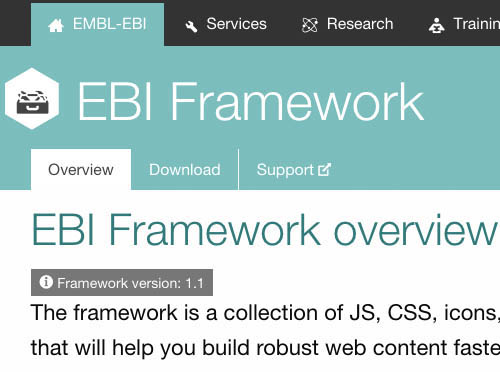
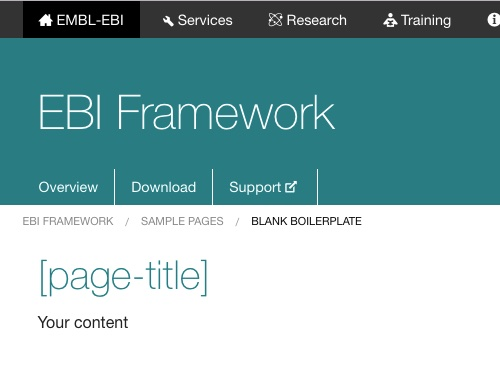
Update structure to match v1.2

diff --git a/templates/page.tpl.php b/templates/page.tpl.php
@@ -1,163 +1,70 @@
 <!--.page -->
-<div role="document" class="page">
+<div id="content" role="document" class="page">
 
   <!--.l-header -->
   <div data-sticky-container>
-    <div id="local-masthead" data-sticky data-sticky-on="large" data-top-anchor="180" data-btm-anchor="300000">
-      <header role="banner" class="l-header">
-
-        <div id="global-masthead" class="clearfix">
-          <!--This has to be one line and no newline characters-->
-          <a href="//www.ebi.ac.uk/" title="Go to the EMBL-EBI homepage"><span class="ebi-logo"></span></a>
-
-          <nav>
-            <div class="row">
-              <ul id="global-nav" class="menu">
-                <!-- set active class as appropriate -->
-                <li id="home-mobile" class=""><a href="//www.ebi.ac.uk"></a></li>
-                <li id="home" class="<?php print $variables['active_in_global_nav']['home']; ?>"><a href="//www.ebi.ac.uk"><i class="icon icon-generic" data-icon="H"></i> EMBL-EBI</a></li>
-                <li id="services" class="<?php print $variables['active_in_global_nav']['services']; ?>"><a href="//www.ebi.ac.uk/services"><i class="icon icon-generic" data-icon="("></i> Services</a></li>
-                <li id="research" class="<?php print $variables['active_in_global_nav']['research']; ?>"><a href="//www.ebi.ac.uk/research"><i class="icon icon-generic" data-icon=")"></i> Research</a></li>
-                <li id="training"  class="<?php print $variables['active_in_global_nav']['training']; ?>"><a href="//www.ebi.ac.uk/training"><i class="icon icon-generic" data-icon="t"></i> Training</a></li>
-                <li id="about" class="<?php print $variables['active_in_global_nav']['about']; ?>"><a href="//www.ebi.ac.uk/about"><i class="icon icon-generic" data-icon="i"></i> About us</a></li>
-                <li id="search">
-                  <a href="#" data-toggle="search-global-dropdown"><i class="icon icon-functional" data-icon="1"></i> <span class="show-for-small-only">Search</span></a>
-                  <div id="search-global-dropdown" class="dropdown-pane" data-dropdown data-options="closeOnClick:true;">
-                    <form id="global-search" name="global-search" action="/ebisearch/search.ebi" method="GET">
-                      <fieldset>
-                        <div class="input-group">
-                          <input type="text" name="query" id="global-searchbox" class="input-group-field" placeholder="Search all of EMBL-EBI">
-                          <div class="input-group-button">
-                            <input type="submit" name="submit" value="Search" class="button">
-                            <input type="hidden" name="db" value="allebi" checked="checked">
-                            <input type="hidden" name="requestFrom" value="global-masthead" checked="checked">
-                          </div>
-                        </div>
-                      </fieldset> 
-                    </form>
-                  </div>
-                </li>
-                <li class="float-right show-for-medium embl-selector">
-                  <button class="button float-right" type="button" data-toggle="embl-dropdown">Hinxton</button>
-                  <!-- The dropdown menu will be programatically added by script.js -->
-                </li>
-                <!-- The dropdown menu will be programatically added by script.js -->
-                <!-- Temporary variant while RWD is still in dev. -->
-                <!-- <li class="float-right show-for-medium embl-selector">
-                  <a href="//www.ebi.ac.uk" style="display: inline-block; background: no-repeat 4px 50% url('//khawkins98.github.io/EBI-Framework//images/logos/EMBL-EBI/EMBL_EBI_Logo_white.svg'); padding-left: 95px; background-size: 105px; height: 31px;"></a>
-                </li> -->
-              </ul>
+    <header id="masthead" class="masthead" data-sticky data-sticky-on="large" data-top-anchor="content:top" data-btm-anchor="content:bottom">
+      <div class="masthead-inner row">
+        <?php if ($top_bar): ?>
+          <!--.top-bar -->
+          <?php if ($top_bar_classes): ?>
+            <div class="<?php print $top_bar_classes; ?>">
+          <?php endif; ?>
+          <nav class="top-bar" data-topbar <?php print $top_bar_options; ?>>
+            <ul class="title-area">
+              <li class="name"><h1><?php print $linked_site_name; ?></h1></li>
+              <li class="toggle-topbar menu-icon">
+                <a href="#"><span><?php print $top_bar_menu_text; ?></span></a></li>
+            </ul>
+            <section class="top-bar-section">
+              <?php if ($top_bar_main_menu) : ?>
+                <?php print $top_bar_main_menu; ?>
+              <?php endif; ?>
+              <?php if ($top_bar_secondary_menu) : ?>
+                <?php print $top_bar_secondary_menu; ?>
+              <?php endif; ?>
+            </section>
+          </nav>
+          <?php if ($top_bar_classes): ?>
             </div>
-          </nav>
-
-        </div>
-
-
-        <div class="masthead row">
-
-          <?php if ($top_bar): ?>
-            <!--.top-bar -->
-            <?php if ($top_bar_classes): ?>
-              <div class="<?php print $top_bar_classes; ?>">
-            <?php endif; ?>
-            <nav class="top-bar" data-topbar <?php print $top_bar_options; ?>>
-              <ul class="title-area">
-                <li class="name"><h1><?php print $linked_site_name; ?></h1></li>
-                <li class="toggle-topbar menu-icon">
-                  <a href="#"><span><?php print $top_bar_menu_text; ?></span></a></li>
-              </ul>
-              <section class="top-bar-section">
-                <?php if ($top_bar_main_menu) : ?>
-                  <?php print $top_bar_main_menu; ?>
-                <?php endif; ?>
-                <?php if ($top_bar_secondary_menu) : ?>
-                  <?php print $top_bar_secondary_menu; ?>
-                <?php endif; ?>
-              </section>
-            </nav>
-            <?php if ($top_bar_classes): ?>
-              </div>
-            <?php endif; ?>
-            <!--/.top-bar -->
           <?php endif; ?>
+          <!--/.top-bar -->
+        <?php endif; ?>
 
-          <!-- local-title -->
-          <div class="columns medium-12" id="local-title">
-            <?php if (!empty($page['local_title'])) : ?>
-              <?php print render($page['local_title']); ?>
-            <?php else: ?>          
-              <h1><a href="<?php print $variables['local_title_path'] ?>" title="Back to <?php print $variables['local_title']; ?>"><?php print $variables['local_title']; ?></a></h1>
-            <?php endif; ?>
-            <?php if (!empty($page['header'])): ?>
-              <!--.l-header-region -->
-              <section class="l-header-region row">
-                <?php print render($page['header']); ?>
-              </section>
-              <!--/.l-header-region -->
-            <?php endif; ?>
-          </div>
-          <!-- /local-title -->
-
-          <!-- local-nav -->
-          <?php if ($alt_main_menu): ?>
-            <nav id="main-menu" class="navigation" role="navigation">
-              <?php if (!empty($page['local_nav'])) : ?>
-                <?php print render($page['local_nav']); ?>
-              <?php else: ?>          
-                <?php print ($alt_secondary_menu); ?>
-              <?php endif; ?>
-              <?php if ($alt_user_menu): ?>
-                  <?php print $alt_user_menu; ?>
-              <?php endif; ?>
-            </nav> <!-- /#main-menu -->
+        <!-- local-title -->
+        <div class="columns medium-12" id="local-title">
+          <?php if (!empty($page['local_title'])) : ?>
+            <?php print render($page['local_title']); ?>
+          <?php else: ?>
+            <h1><a href="<?php print $variables['local_title_path'] ?>" title="Back to <?php print $variables['local_title']; ?>"><?php print $variables['local_title']; ?></a></h1>
           <?php endif; ?>
-
-
-<!--
-          <nav>
-            <ul class="dropdown menu float-left" data-description="navigational">
-              <li><a href="#test">About</a></li>
-              <li class="active"><a href="#">Generic</a></li>
-              <li><a href="#">Generic</a></li>
-              <li><a href="#">Generic</a></li>
-            </ul>
-            <ul class="menu dropdown float-right" data-dropdown-menu data-description="functional">
-              <li class="functional"><a href="#"><i class="icon icon-generic" data-icon="d"></i> Share this</a>
-                <ul class="menu js">
-                  <li><a href="#">Item 1A Loooong</a></li>
-                  <li>
-                    <a href='#'> Item 1 sub</a>
-                    <ul class='menu'>
-                      <li><a href='#'>Item 1 subA</a></li>
-                      <li><a href='#'>Item 1 subB</a></li>
-                      <li>
-                        <a href='#'> Item 1 sub</a>
-                        <ul class='menu'>
-                          <li><a href='#'>Item 1 subA</a></li>
-                          <li><a href='#'>Item 1 subB</a></li>
-                        </ul>
-                      </li>
-                      <li>
-                        <a href='#'> Item 1 sub</a>
-                        <ul class='menu'>
-                          <li><a href='#'>Item 1 subA</a></li>
-                        </ul>
-                      </li>
-                    </ul>
-                  </li>
-                  <li><a href="#">Item 1B</a></li>
-                </ul>
-
-            </ul>
-          </nav>
-
-          -->
-          <!-- /local-nav -->
-
+          <?php if (!empty($page['header'])): ?>
+            <!--.l-header-region -->
+            <section class="l-header-region row">
+              <?php print render($page['header']); ?>
+            </section>
+            <!--/.l-header-region -->
+          <?php endif; ?>
         </div>
+        <!-- /local-title -->
 
-      </header>
-    </div>
+        <!-- local-nav -->
+        <?php if ($alt_main_menu): ?>
+          <nav id="main-menu" class="navigation" role="navigation">
+            <?php if (!empty($page['local_nav'])) : ?>
+              <?php print render($page['local_nav']); ?>
+            <?php else: ?>
+              <?php print ($alt_secondary_menu); ?>
+            <?php endif; ?>
+            <?php if ($alt_user_menu): ?>
+                <?php print $alt_user_menu; ?>
+            <?php endif; ?>
+          </nav> <!-- /#main-menu -->
+        <?php endif; ?>
+        <!-- /local-nav -->
+      </div>
+    </header>
+
   </div>
   <!--/.l-header -->
 
@@ -196,8 +103,8 @@
     <!--.l-breadcrumb -->
     <div class="row">
       <div class="columns">
-        <?php 
-        if ($breadcrumb): print $breadcrumb; endif; 
+        <?php
+        if ($breadcrumb): print $breadcrumb; endif;
         ?>
       </div>
     </div>
@@ -206,8 +113,8 @@
 
 
   <!--.l-main -->
-  <main role="main" class="row l-main">
-    
+  <main id="main-content-area" role="main" class="row l-main">
+
     <!-- .l-main region -->
     <div class="<?php print $main_grid; ?> main columns">
       <?php if (!empty($page['highlighted'])): ?>
@@ -292,20 +199,25 @@
         <?php print render($page['footer_fourthcolumn']); ?>
       </div>
     <?php endif; ?>
-  </section>
-  <!--/.footer-columns-->
 
-  <!--.l-footer -->
-  <footer id="global-footer" class="l-footer panel row" role="contentinfo">
-    <nav id="global-nav-expanded"></nav>
-
-    <div id="ebi-footer-meta"></div>
     <?php if (!empty($page['footer'])): ?>
       <div class="footer columns">
         <?php print render($page['footer']); ?>
       </div>
     <?php endif; ?>
+  </section>
+  <!--/.footer-columns-->
 
+  <!--.l-footer -->
+  <footer>
+    <div id="global-footer" class="global-footer">
+      <nav id="global-nav-expanded" class="global-nav-expanded row">
+        <!-- Footer will be automatically inserted by footer.js -->
+      </nav>
+      <section id="ebi-footer-meta" class="ebi-footer-meta row">
+        <!-- Footer meta will be automatically inserted by footer.js -->
+      </section>
+    </div>
   </footer>
   <!--/.l-footer -->
 

diff --git a/templates/html.tpl.php b/templates/html.tpl.php
@@ -17,12 +17,12 @@
     function ebi_framework_tidy($buffer, $is_admin, $is_prod) {
       $local_server = str_replace('.', '\.', $_SERVER['HTTP_HOST']);
       // remove http protcol from: from www.ebi links
-  //    $buffer = preg_replace('#(href|src)\s*=\s*(["\'])https?:(//www\.ebi\.ac\.uk)#sm', '$1=$2$3', $buffer); 
-  //    $buffer = preg_replace('#(url)\s*\(\s*(["\']?)https?:(//www\.ebi\.ac\.uk)#sm', '$1($2$3', $buffer); 
-  //    $buffer = preg_replace('#(url)\s*\(\s*(["\']?)(https?:)?//frontier\.ebi\.ac\.uk/?#sm', '$1($2/', $buffer); 
+  //    $buffer = preg_replace('#(href|src)\s*=\s*(["\'])https?:(//www\.ebi\.ac\.uk)#sm', '$1=$2$3', $buffer);
+  //    $buffer = preg_replace('#(url)\s*\(\s*(["\']?)https?:(//www\.ebi\.ac\.uk)#sm', '$1($2$3', $buffer);
+  //    $buffer = preg_replace('#(url)\s*\(\s*(["\']?)(https?:)?//frontier\.ebi\.ac\.uk/?#sm', '$1($2/', $buffer);
       // remove http protcol from: from local domain links
-      $buffer = preg_replace("#(href|src)\s*=\s*([\"'])https?:(//{$local_server})#sm", '$1=$2$3', $buffer); 
-  //    $buffer = preg_replace("#(url)\s*\(\s*([\"']?)https?:(//{$local_server})#sm", '$1($2$3', $buffer); 
+      $buffer = preg_replace("#(href|src)\s*=\s*([\"'])https?:(//{$local_server})#sm", '$1=$2$3', $buffer);
+  //    $buffer = preg_replace("#(url)\s*\(\s*([\"']?)https?:(//{$local_server})#sm", '$1($2$3', $buffer);
 
       if (!$is_prod) {
         $buffer = str_replace('//www.ebi.ac.uk', '//wwwdev.ebi.ac.uk', $buffer);
@@ -93,16 +93,16 @@
 
   <!-- If you have custom icon, replace these as appropriate.
        You can generate them at realfavicongenerator.net -->
-  <link rel="icon" type="image/x-icon" href="https://ebiwd.github.io/EBI-Framework/images/logos/EMBL-EBI/favicons/favicon.ico" />
-  <link rel="icon" type="image/png" href="https://ebiwd.github.io/EBI-Framework/images/logos/EMBL-EBI/favicons/favicon-32x32.png" />
-  <link rel="icon" type="image/png" sizes="192×192" href="https://ebiwd.github.io/EBI-Framework/images/logos/EMBL-EBI/favicons/android-chrome-192x192.png" /> <!-- Android (192px) -->
-  <link rel="apple-touch-icon-precomposed" sizes="114x114" href="https://ebiwd.github.io/EBI-Framework/images/logos/EMBL-EBI/favicons/apple-icon-114x114.png"> <!-- For iPhone 4 Retina display (114px) -->
-  <link rel="apple-touch-icon-precomposed" sizes="72x72" href="https://ebiwd.github.io/EBI-Framework/images/logos/EMBL-EBI/favicons/apple-icon-72x72.png"> <!-- For iPad (72px) -->
-  <link rel="apple-touch-icon-precomposed" sizes="144x144" href="https://ebiwd.github.io/EBI-Framework/images/logos/EMBL-EBI/favicons/apple-icon-144x144.png"> <!-- For iPad retinat (144px) -->
-  <link rel="apple-touch-icon-precomposed" href="https://ebiwd.github.io/EBI-Framework/images/logos/EMBL-EBI/favicons/apple-icon-57x57.png"> <!-- For iPhone (57px) -->
-  <link rel="mask-icon" href="https://ebiwd.github.io/EBI-Framework/images/logos/EMBL-EBI/favicons/safari-pinned-tab.svg" color="#ffffff"> <!-- Safari icon for pinned tab -->
-  <meta name="msapplication-TileColor" content="#2b5797"> <!-- MS Icons -->
-  <meta name="msapplication-TileImage" content="https://ebiwd.github.io/EBI-Framework/images/logos/EMBL-EBI/favicons/mstile-144x144.png">
+  <link rel="icon" type="image/x-icon" href="//www.ebi.ac.uk/web_guidelines/EBI-Framework/v1.2/images/logos/EMBL-EBI/favicons/favicon.ico" />
+  <link rel="icon" type="image/png" href="//www.ebi.ac.uk/web_guidelines/EBI-Framework/v1.2/images/logos/EMBL-EBI/favicons/favicon-32x32.png" />
+  <link rel="icon" type="image/png" sizes="192×192" href="//www.ebi.ac.uk/web_guidelines/EBI-Framework/v1.2/images/logos/EMBL-EBI/favicons/android-chrome-192x192.png" /> <!-- Android (192px) -->
+  <link rel="apple-touch-icon-precomposed" sizes="114x114" href="//www.ebi.ac.uk/web_guidelines/EBI-Framework/v1.2/images/logos/EMBL-EBI/favicons/apple-icon-114x114.png" /> <!-- For iPhone 4 Retina display (114px) -->
+  <link rel="apple-touch-icon-precomposed" sizes="72x72" href="//www.ebi.ac.uk/web_guidelines/EBI-Framework/v1.2/images/logos/EMBL-EBI/favicons/apple-icon-72x72.png" /> <!-- For iPad (72px) -->
+  <link rel="apple-touch-icon-precomposed" sizes="144x144" href="//www.ebi.ac.uk/web_guidelines/EBI-Framework/v1.2/images/logos/EMBL-EBI/favicons/apple-icon-144x144.png" /> <!-- For iPad retinat (144px) -->
+  <link rel="apple-touch-icon-precomposed" href="//www.ebi.ac.uk/web_guidelines/EBI-Framework/v1.2/images/logos/EMBL-EBI/favicons/apple-icon-57x57.png" /> <!-- For iPhone (57px) -->
+  <link rel="mask-icon" href="//www.ebi.ac.uk/web_guidelines/EBI-Framework/v1.2/images/logos/EMBL-EBI/favicons/safari-pinned-tab.svg" color="#ffffff" /> <!-- Safari icon for pinned tab -->
+  <meta name="msapplication-TileColor" content="#2b5797" /> <!-- MS Icons -->
+  <meta name="msapplication-TileImage" content="//www.ebi.ac.uk/web_guidelines/EBI-Framework/v1.2/images/logos/EMBL-EBI/favicons/mstile-144x144.png" />
 
   <!-- <meta name="ebi-localmasthead-color" content="#241a00">  -->
   <!-- <meta name="ebi-localmasthead-image" content="https://ebiwd.github.io/EBI-Framework/images/backgrounds/training-yellow-2.jpg"> -->
@@ -114,6 +114,29 @@
   <div class="skip-link">
     <a href="#main-content" class="element-invisible element-focusable"><?php print t('Skip to main content'); ?></a>
   </div>
+  <header id="masthead-black-bar" class="clearfix masthead-black-bar">
+    <nav class="row">
+      <ul id="global-nav" class="menu">
+        <!-- set active class as appropriate -->
+        <li class="home-mobile"><a href="//www.ebi.ac.uk"></a></li>
+        <li class="home <?php print $variables['active_in_global_nav']['home']; ?>"><a href="//www.ebi.ac.uk">EMBL-EBI</a></li>
+        <li class="services <?php print $variables['active_in_global_nav']['services']; ?>"><a href="//www.ebi.ac.uk/services">Services</a></li>
+        <li class="research <?php print $variables['active_in_global_nav']['research']; ?>"><a href="//www.ebi.ac.uk/research">Research</a></li>
+        <li class="training <?php print $variables['active_in_global_nav']['training']; ?>"><a href="//www.ebi.ac.uk/training">Training</a></li>
+        <li class="about <?php print $variables['active_in_global_nav']['about']; ?>"><a href="//www.ebi.ac.uk/about">About us</a></li>
+        <li class="search">
+          <a href="#" data-toggle="search-global-dropdown"><span class="show-for-small-only">Search</span></a>
+          <div id="search-global-dropdown" class="dropdown-pane" data-dropdown data-options="closeOnClick:true;">
+          <!-- The dropdown menu will be programatically added by script.js -->
+          </div>
+        </li>
+        <li class="float-right show-for-medium embl-selector">
+          <button class="button float-right" type="button" data-toggle="embl-dropdown">Hinxton</button>
+          <!-- The dropdown menu will be programatically added by script.js -->
+        </li>
+      </ul>
+    </nav>
+  </header>
   <?php print (ebi_framework_tidy($page_top, $is_admin, $is_prod)); ?>
   <?php print (ebi_framework_tidy($page, $is_admin, $is_prod)); ?>
   <?php print (ebi_framework_tidy($page_bottom, $is_admin, $is_prod)); ?>
